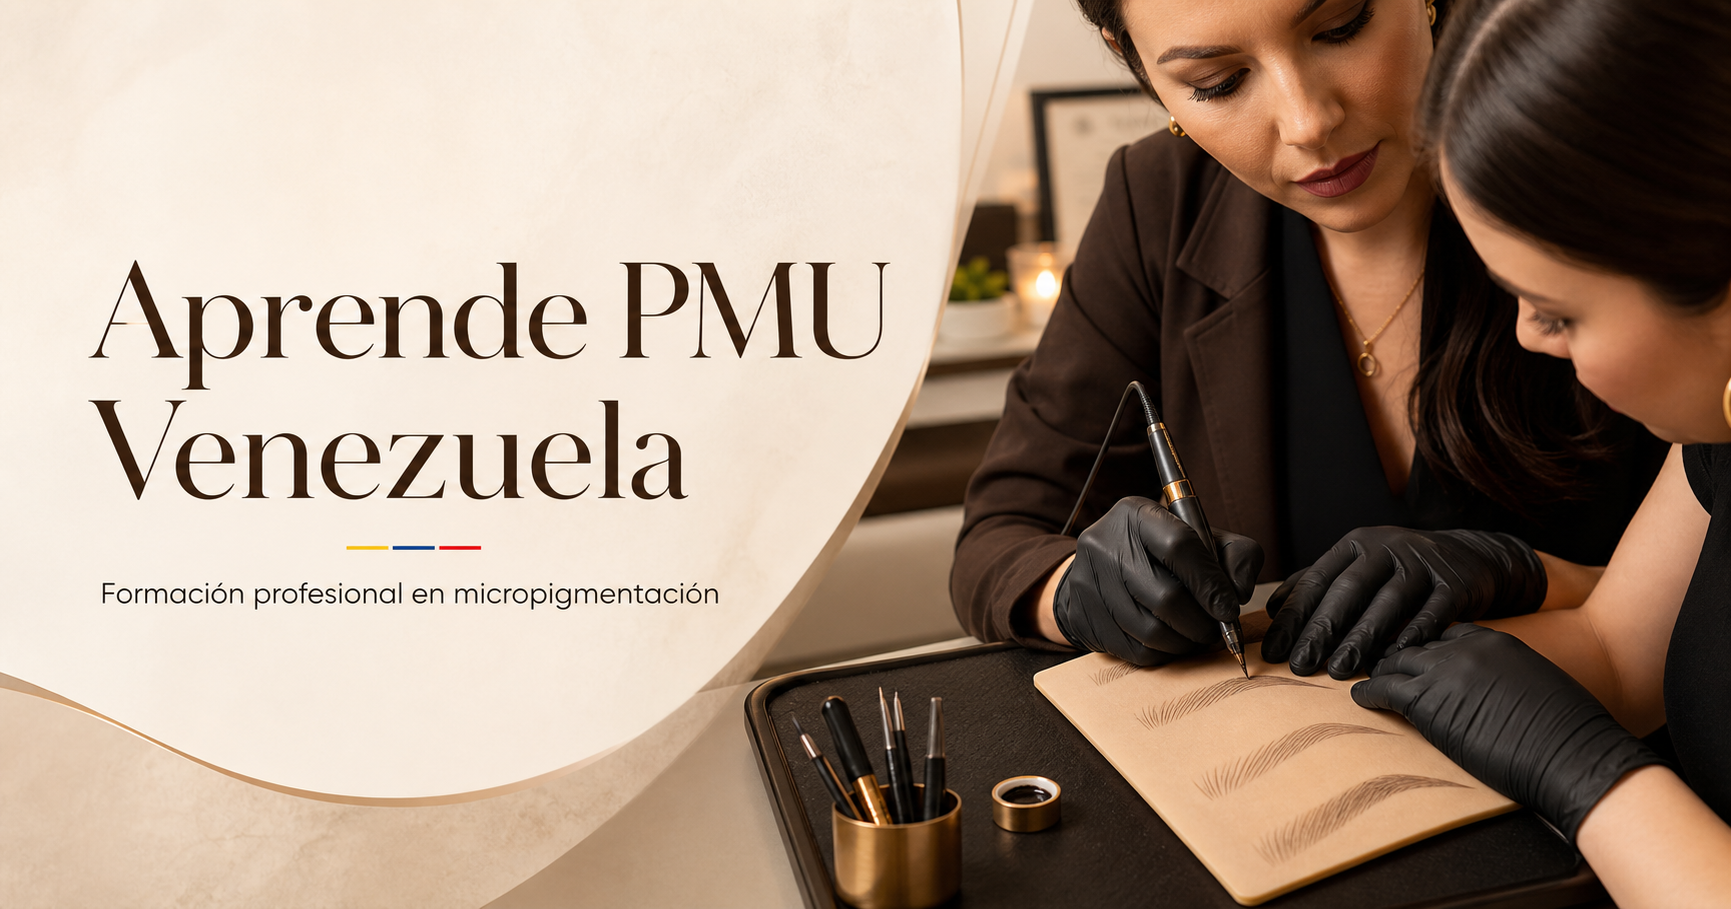
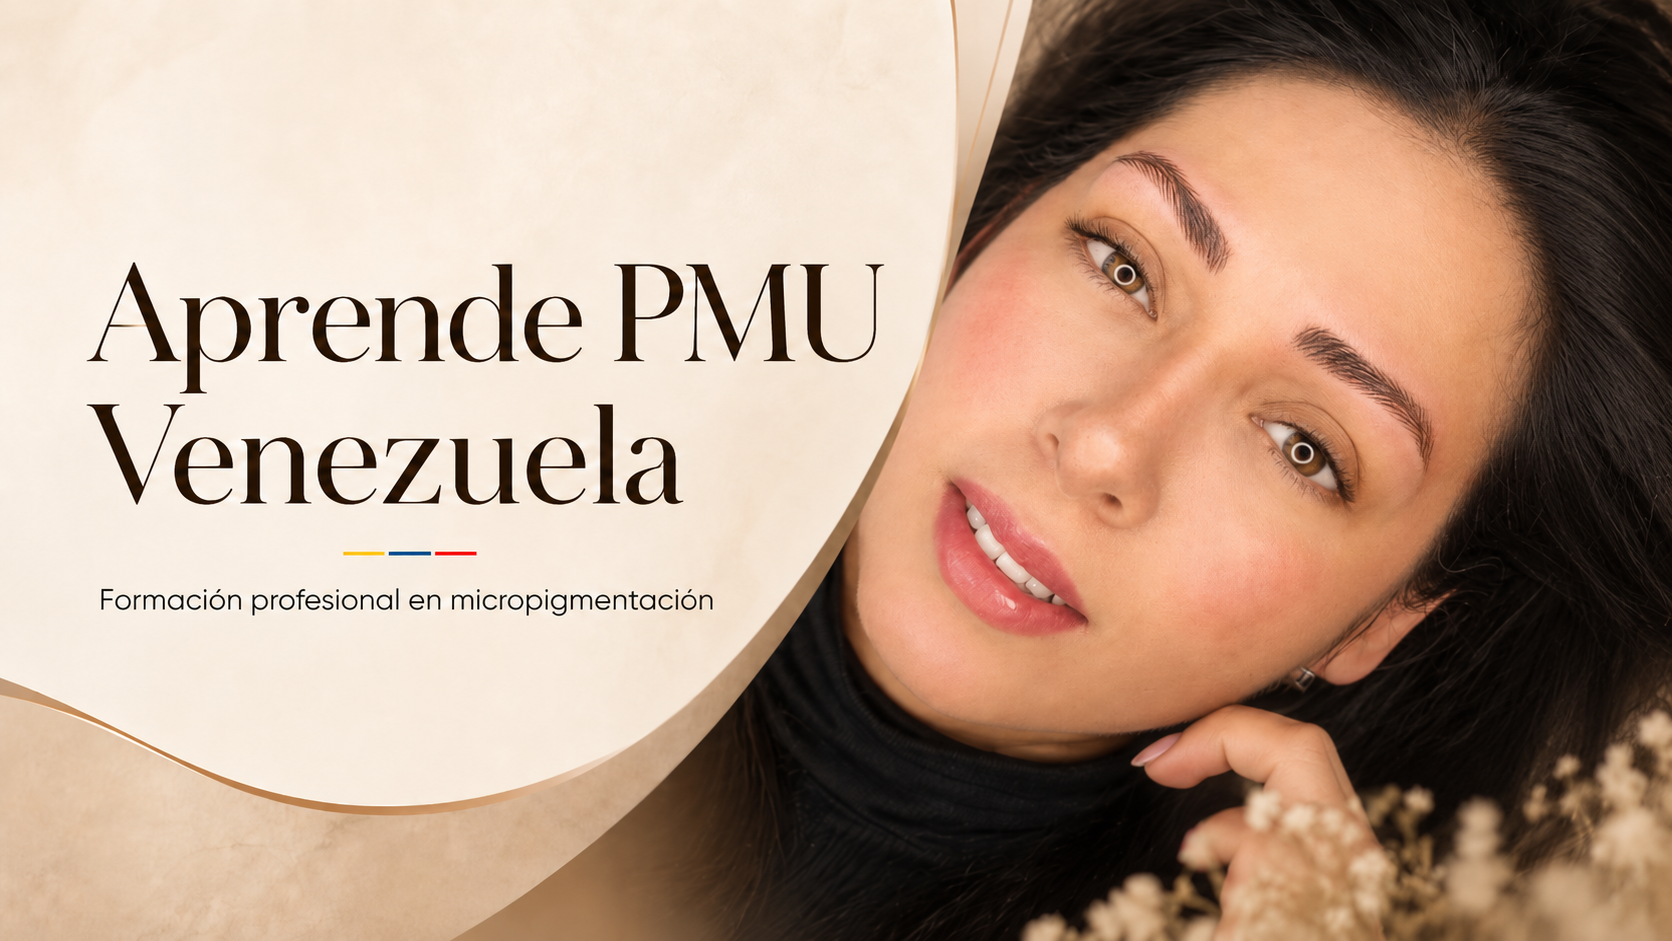
Add files via upload

diff --git a/app/page.tsx b/app/page.tsx
@@ -12,7 +12,8 @@ export default function Home(){return <><Navbar/><main><Hero/><div className="tr
 <section className="section steps"><p className="eyebrow">PASO A PASO</p><h2>Inscribirte desde Venezuela es sencillo</h2><div>{['Elige tu curso','Escríbenos por WhatsApp','Selecciona tu método de pago','Envía tus datos y comprobante','Recibe tu acceso'].map((x,i)=><article key={x}><b>0{i+1}</b><h3>{x}</h3><p>{['Explora los programas y encuentra el ideal para ti.','Te atenderá directamente nuestro equipo.','Te confirmamos las opciones disponibles.','Verificamos la información de tu inscripción.','Activamos tu formación después de verificar el pago.'][i]}</p></article>)}</div></section>
 <section className="trust section" id="confianza"><div className="trust-copy"><p className="eyebrow">APRENDE PMU</p><h2>La misma formación. Una forma más fácil de adquirirla.</h2><p>Pagar directamente desde Venezuela no modifica el contenido, la calidad, el acceso, la certificación, el soporte ni la metodología de tu formación.</p><div className="quality-list">{['Contenido profesional','Certificación digital','Acompañamiento','Acceso online'].map(x=><span key={x}>✓ {x}</span>)}</div></div><div className="metrics">{siteConfig.metrics.map(m=><div key={m.label}><strong>{m.value||'—'}</strong><span>{m.label}</span></div>)}</div></section>
 <section className="editorial-statement"><p className="eyebrow light">APRENDE DESDE VENEZUELA</p><h2>Una academia internacional que abre una puerta especial a <em>Venezuela.</em></h2><p>Cursos online · Acceso profesional · Pago directo · Acompañamiento</p></section><section className="instructor"><div className="instructor-photo" style={{backgroundImage:"linear-gradient(180deg,transparent 65%,rgba(33,28,25,.3)),url('/instructor/veronica-montano.jpg')"}} role="img" aria-label="Retrato de Verónica Montaño"/><div><p className="eyebrow light">CONOCE A TU PROFESORA</p><h2>Verónica<br/><em>Montaño.</em></h2><p className="lead-small">Profesional y educadora en micropigmentación con más de 17 años de experiencia.</p><p>Durante su trayectoria ha acompañado a estudiantes que necesitaban mucho más que una demostración: necesitaban comprender el porqué de cada decisión técnica.</p><p>Su metodología combina experiencia práctica, fundamentos de la piel, observación, entrenamiento progresivo y explicaciones fáciles de aplicar.</p><div className="bio-points"><span>17+ años de experiencia</span><span>Técnica y comprensión</span><span>Experiencia con diferentes tipos de piel</span><span>Creadora de contenidos educativos</span><span>Formación en actualización constante</span></div><a className="button button-cream" href="#cursos">Conoce nuestros cursos ↓</a></div></section>
+<section className="social-proof section" aria-labelledby="social-title"><div><p className="eyebrow">CONTINÚA APRENDIENDO</p><h2 id="social-title">Sigue a Verónica y fortalece tu técnica cada semana.</h2></div><div className="social-links">{siteConfig.socialLinks.map(({name,url,mark})=><a key={name} href={url} target="_blank" rel="noreferrer" aria-label={`Seguir a Verónica Montaño en ${name}`}><span aria-hidden>{mark}</span><strong>{name}</strong><Arrow/></a>)}</div></section>
 <section className="section testimonials"><div className="section-head"><div><p className="eyebrow">EXPERIENCIAS</p><h2>Historias de nuestra comunidad</h2></div><p>La experiencia de estudiantes que eligieron fortalecer su técnica y comprensión con Aprende PMU.</p></div><div className="testimonial-scroll">{testimonials.map((t,i)=><article key={i}><span>“</span><p>{t.text}</p><footer><div className="avatar">{t.name[0]}</div><div><strong>{t.name}</strong><small>{t.location}</small></div></footer></article>)}</div></section>
 <section className="section faq" id="faq"><div><p className="eyebrow">PREGUNTAS FRECUENTES</p><h2>Todo lo que necesitas saber antes de inscribirte.</h2><WhatsAppLink label="¿Tienes otra pregunta?" location="faq" className="text-link dark"/></div><div>{faq.map((item,i)=><details key={item.question} open={i===0}><summary>{item.question}<span>＋</span></summary><p>{item.answer}</p></details>)}</div></section>
 <section className="final"><p className="eyebrow light">VENEZUELA 🇻🇪</p><h2>Tu próxima etapa profesional<br/><em>puede comenzar hoy.</em></h2><p>Selecciona el programa que quieres estudiar y nuestro equipo te ayudará a realizar tu inscripción desde Venezuela.</p><div className="actions center"><a className="button button-cream" href="#cursos">Ver cursos ↓</a><WhatsAppLink label="Hablar con el equipo" location="final_cta" className="button button-outline"/></div></section></main>
-<a className="floating" href={whatsappUrl(siteConfig.whatsappMessage,{source:'landing_venezuela',medium:'whatsapp',campaign:'beneficio_directo',content:'floating'})} aria-label="Hablar por WhatsApp" target="_blank" rel="noreferrer">WA</a><footer className="footer"><div><a className="brand footer-brand" href="#top"><span>APRENDE</span><strong>PMU</strong></a><p>Formación profesional en micropigmentación.</p></div><div><a href="#cursos">Cursos</a><a href="#top">Venezuela</a><a href={whatsappUrl(siteConfig.whatsappMessage)}>Contacto</a></div><div><a href="#">Política de privacidad</a><a href="#">Términos</a><a href={siteConfig.instagramUrl}>Instagram</a></div><p className="disclaimer">Los métodos de pago disponibles pueden cambiar y serán confirmados por nuestro equipo al momento de realizar la inscripción.</p><small>© {new Date().getFullYear()} Aprende PMU</small></footer></>}
+<a className="floating" href={whatsappUrl(siteConfig.whatsappMessage,{source:'landing_venezuela',medium:'whatsapp',campaign:'beneficio_directo',content:'floating'})} aria-label="Hablar por WhatsApp" target="_blank" rel="noreferrer">WA</a><footer className="footer"><div><a className="brand footer-brand" href="#top"><span>APRENDE</span><strong>PMU</strong></a><p>Formación profesional en micropigmentación.</p></div><div><a href="#cursos">Cursos</a><a href="#top">Venezuela</a><a href={whatsappUrl(siteConfig.whatsappMessage)}>Contacto</a></div><div className="footer-socials">{siteConfig.socialLinks.map(({name,url})=><a key={name} href={url} target="_blank" rel="noreferrer"><span>{name}</span><Arrow/></a>)}</div><p className="disclaimer">Los métodos de pago disponibles pueden cambiar y serán confirmados por nuestro equipo al momento de realizar la inscripción.</p><small>© {new Date().getFullYear()} Aprende PMU</small></footer></>}

diff --git a/app/layout.tsx b/app/layout.tsx
@@ -1,3 +1,3 @@
 import type { Metadata } from 'next'; import { Analytics } from '@vercel/analytics/next'; import './globals.css';
-export const metadata:Metadata={metadataBase:new URL('https://aprendepmuvenezuela.vercel.app'),title:'Cursos de Micropigmentación en Venezuela | Aprende PMU',description:'Estudia micropigmentación profesional desde Venezuela. Cursos online de labios, cejas, Hairstroke, Microblading y más. Opciones de pago directo en USDT.',alternates:{canonical:'/'},openGraph:{title:'Aprende PMU Venezuela',description:'Formación profesional en micropigmentación, ahora más fácil desde Venezuela.',url:'/',siteName:'Aprende PMU Venezuela',locale:'es_VE',type:'website',images:[{url:'/og.png',width:1731,height:909,alt:'Aprende PMU Venezuela — Formación profesional en micropigmentación',type:'image/png'}]},twitter:{card:'summary_large_image',title:'Aprende PMU Venezuela',description:'Cursos online profesionales con opciones de pago directo desde Venezuela.',images:[{url:'/og.png',alt:'Aprende PMU Venezuela — Formación profesional en micropigmentación'}]},robots:{index:true,follow:true}};
-export default function RootLayout({children}:{children:React.ReactNode}){const schema={"@context":"https://schema.org","@type":"EducationalOrganization",name:'Aprende PMU',url:'https://www.aprendemicroblading.com/venezuela',areaServed:'VE',description:'Formación profesional online en micropigmentación.'};return <html lang="es"><body><script type="application/ld+json" dangerouslySetInnerHTML={{__html:JSON.stringify(schema)}}/>{children}<Analytics/></body></html>}
+export const metadata:Metadata={metadataBase:new URL('https://aprendepmuvenezuela.vercel.app'),title:'Cursos de Micropigmentación en Venezuela | Aprende PMU',description:'Estudia micropigmentación profesional desde Venezuela. Cursos online de labios, cejas, Hairstroke, Microblading y más. Opciones de pago directo en USDT.',alternates:{canonical:'/'},openGraph:{title:'Aprende PMU Venezuela',description:'Formación profesional en micropigmentación, ahora más fácil desde Venezuela.',url:'/',siteName:'Aprende PMU Venezuela',locale:'es_VE',type:'website',images:[{url:'/og.png',width:1672,height:941,alt:'Aprende PMU Venezuela — Formación profesional en micropigmentación',type:'image/png'}]},twitter:{card:'summary_large_image',title:'Aprende PMU Venezuela',description:'Cursos online profesionales con opciones de pago directo desde Venezuela.',images:[{url:'/og.png',alt:'Aprende PMU Venezuela — Formación profesional en micropigmentación'}]},robots:{index:true,follow:true}};
+export default function RootLayout({children}:{children:React.ReactNode}){const schema={"@context":"https://schema.org","@type":"EducationalOrganization",name:'Aprende PMU',url:'https://aprendepmuvenezuela.vercel.app',areaServed:'VE',description:'Formación profesional online en micropigmentación.'};return <html lang="es"><body><script type="application/ld+json" dangerouslySetInnerHTML={{__html:JSON.stringify(schema)}}/>{children}<Analytics/></body></html>}

diff --git a/app/globals.css b/app/globals.css
@@ -57,3 +57,15 @@ h2{font-size:clamp(2.35rem,11vw,2.85rem);line-height:.98}
 .faq h2{font-size:2.65rem}.final{padding:95px 20px}.footer{padding-inline:20px}
 }
 @media(max-width:360px){h1{font-size:1.78rem;line-height:1.03}.course-card h3{font-size:1.35rem}.resource-copy h4{font-size:1.35rem}.metrics{grid-template-columns:1fr}.metrics div{border-right:0}.metrics strong{font-size:2.35rem}.floating{display:none}}
+
+/* Redes sociales */
+.social-proof{display:grid;grid-template-columns:1fr 1.08fr;gap:80px;align-items:end;border-top:1px solid #ded4c9}
+.social-proof h2{font-size:clamp(2.7rem,4.4vw,4.8rem);max-width:680px;margin-bottom:0}
+.social-links{display:grid;grid-template-columns:1fr 1fr;border-top:1px solid #d7cec3}
+.social-links a{display:grid;grid-template-columns:40px 1fr auto;gap:14px;align-items:center;padding:21px 8px;border-bottom:1px solid #d7cec3;transition:color .2s,transform .2s}
+.social-links a:nth-child(odd){padding-right:24px}.social-links a:nth-child(even){padding-left:24px;border-left:1px solid #d7cec3}
+.social-links a:hover{color:var(--petrol);transform:translateY(-2px)}
+.social-links a>span:first-child{width:38px;height:38px;border:1px solid var(--gold);border-radius:50%;display:grid;place-items:center;font-size:.58rem;letter-spacing:.08em;color:var(--gold)}
+.social-links strong{font-size:.76rem;letter-spacing:.06em}.footer-socials a{display:flex;justify-content:space-between;gap:12px}
+@media(max-width:900px){.social-proof{grid-template-columns:1fr;gap:42px}}
+@media(max-width:560px){.social-proof{padding-top:76px;padding-bottom:76px}.social-proof h2{font-size:2.45rem}.social-links{grid-template-columns:1fr}.social-links a:nth-child(n){padding:18px 4px;border-left:0}}

diff --git a/data/siteConfig.ts b/data/siteConfig.ts
@@ -1,7 +1,13 @@
 export const siteConfig = {
   whatsappNumber: '573156833690',
   whatsappMessage: 'Hola, estoy en Venezuela 🇻🇪 y quiero información sobre los cursos de Aprende PMU.',
-  instagramUrl: 'https://instagram.com/', canonicalUrl: 'https://www.aprendemicroblading.com/venezuela',
+  canonicalUrl: 'https://aprendepmuvenezuela.vercel.app',
+  socialLinks: [
+    { name: 'Instagram', url: 'https://www.instagram.com/veronicapmu/', mark: 'IG' },
+    { name: 'TikTok', url: 'https://www.tiktok.com/@veronicapmu', mark: 'TT' },
+    { name: 'YouTube', url: 'https://www.youtube.com/@veronicampmu', mark: 'YT' },
+    { name: 'Facebook', url: 'https://www.facebook.com/veronicampmu/', mark: 'FB' },
+  ],
   trustLine: ['Formación internacional','Miles de estudiantes','Aprende a tu ritmo'],
   metrics: [{value:'+17',label:'Años de experiencia'},{value:'+20.000',label:'Estudiantes formados'},{value:'48',label:'Países alcanzados'},{value:'+15',label:'Productos disponibles'}],
 };
